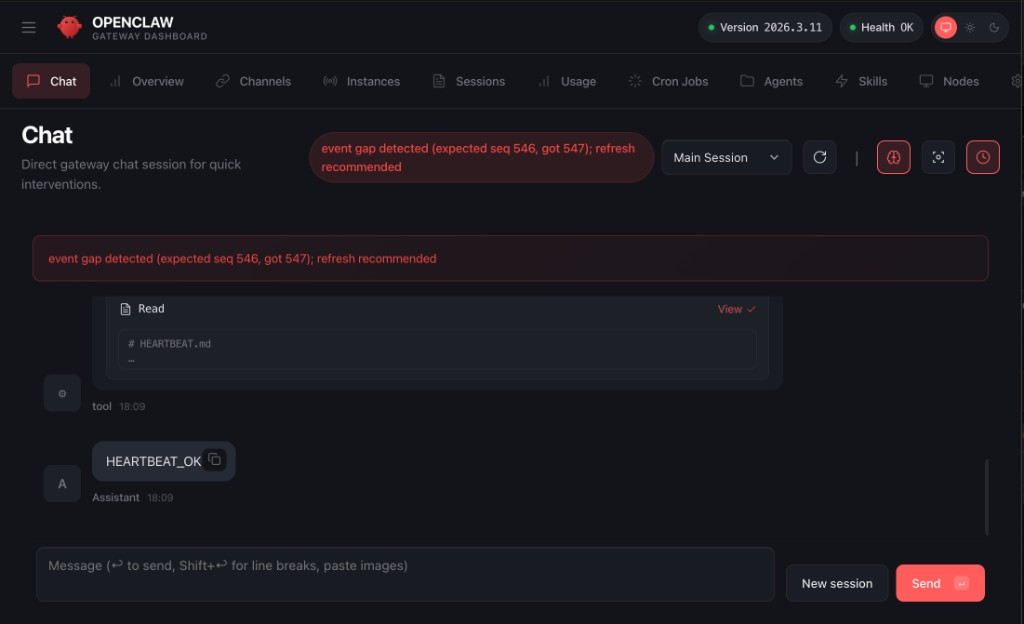
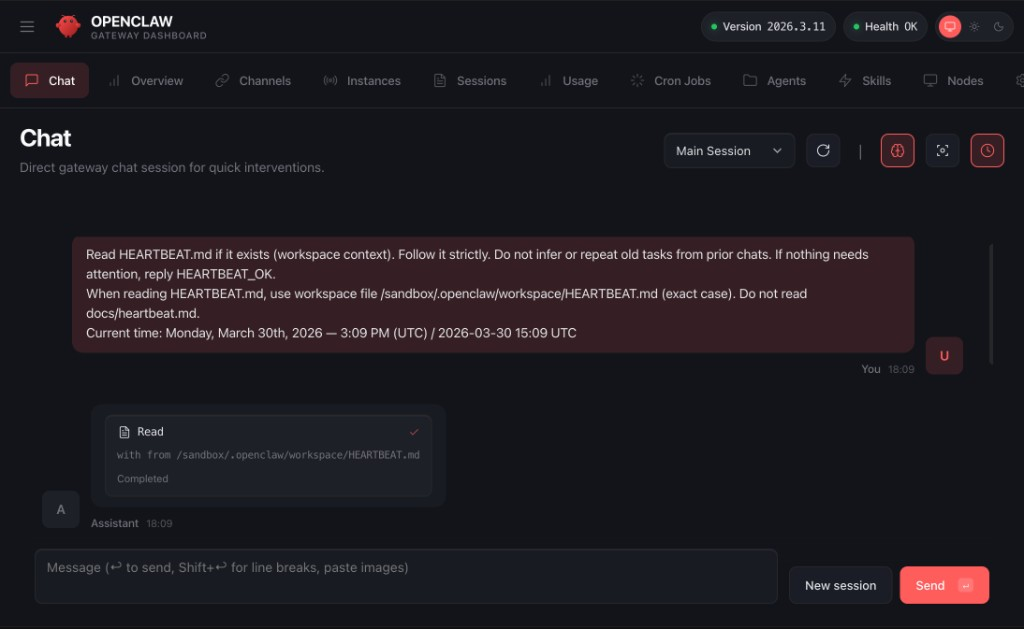
dashboard/desktop: restore full preview width, fresh screenshots
Container back to max-w-[1040px]. Remove image-rendering hack.
Replace all 6 screenshots with new uploads (1024x629).

Made-with: Cursor

diff --git a/dashboard/src/app/desktop/page.tsx b/dashboard/src/app/desktop/page.tsx
@@ -225,7 +225,7 @@ function AppPreview({ className }: { className?: string }) {
   }
 
   return (
-    <div className={cn('relative mx-auto w-full max-w-[820px]', className)}>
+    <div className={cn('relative mx-auto w-full max-w-[1040px]', className)}>
       <div
         className="overflow-hidden rounded-[10px] border border-white/[0.1] bg-[#111]"
         style={{ boxShadow: '0 28px 70px rgba(0,0,0,0.4), 0 14px 32px rgba(0,0,0,0.25), 0 0 0 1px rgba(255,255,255,0.06)' }}
@@ -265,7 +265,7 @@ function AppPreview({ className }: { className?: string }) {
               width={1024}
               height={624}
               className="block w-full"
-              style={{ imageRendering: '-webkit-optimize-contrast', height: 'auto' }}
+              style={{ height: 'auto' }}
               loading={current.key === 'chat' ? 'eager' : 'lazy'}
               decoding="async"
               onError={() => setBroken((prev) => ({ ...prev, [current.key]: true }))}
